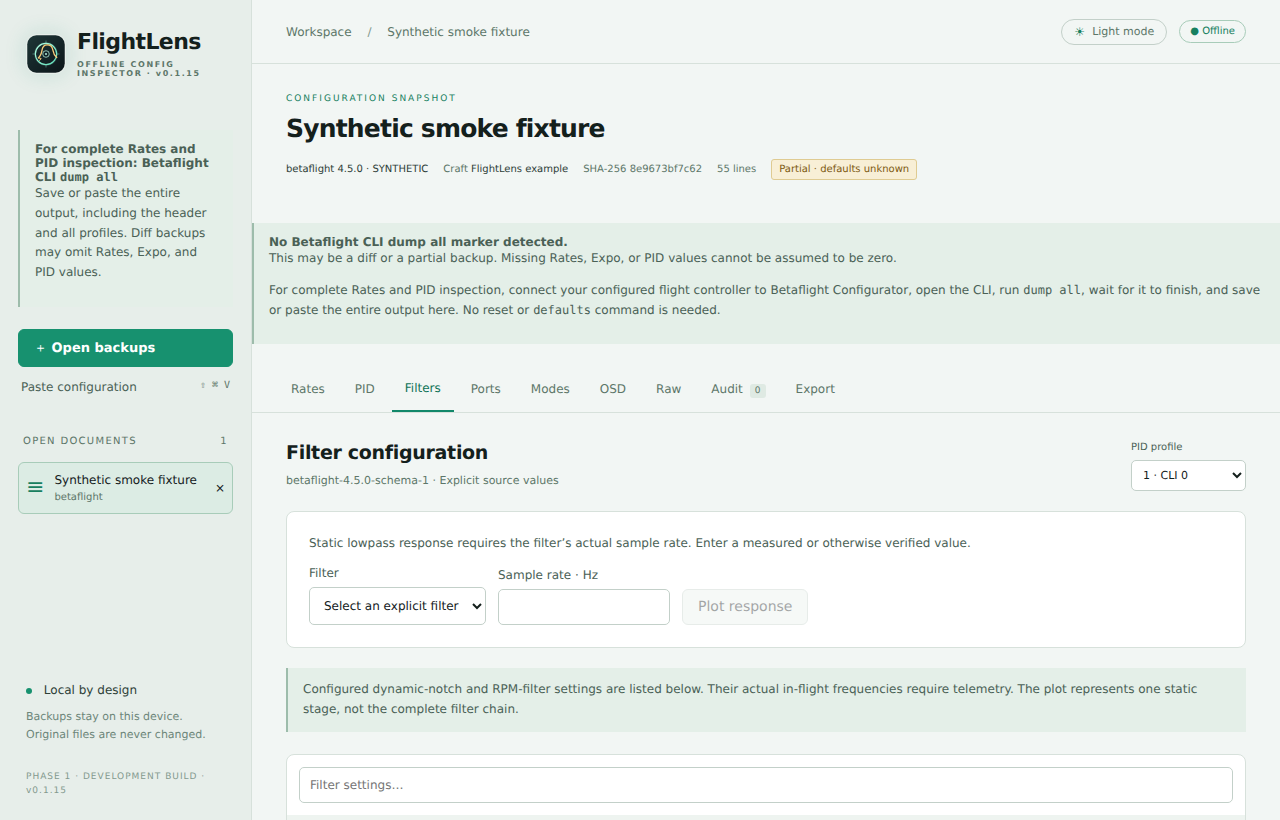
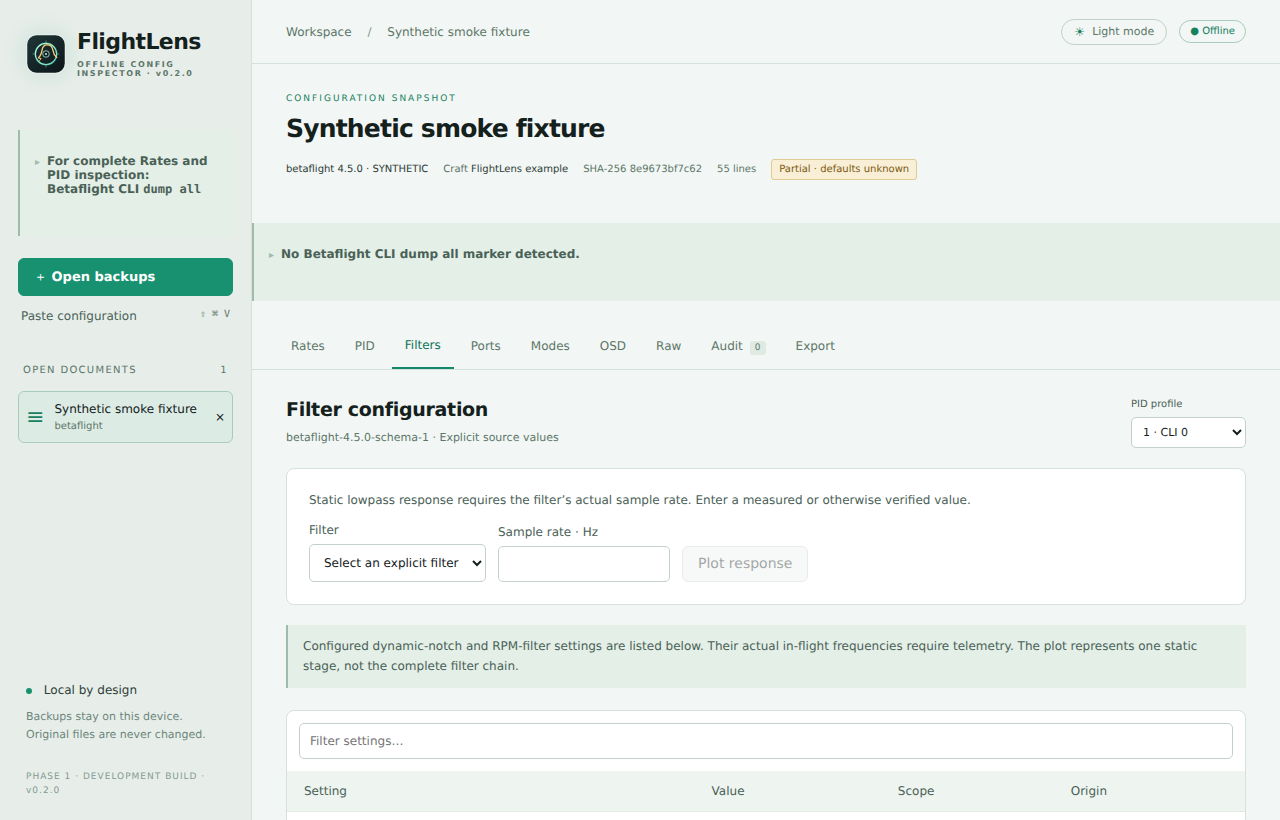
Collapse the backup-guidance notices by default
The sidebar "For complete Rates and PID inspection" note and the "No
Betaflight CLI dump all marker detected" warning in the Configuration
Snapshot each become a disclosure: the headline stays visible and the
detail opens on click, so the guidance remains available without pushing
the inspection down the page. README screenshots follow the new layout.

diff --git a/src/App.tsx b/src/App.tsx
@@ -144,8 +144,12 @@ export default function App() {
           </div>
         </div>
         <section className="notice" aria-label="Backup import warning">
-          <b>For complete Rates and PID inspection: Betaflight CLI <code>dump all</code></b>
-          <p>Save or paste the entire output, including the header and all profiles. Diff backups may omit Rates, Expo, and PID values.</p>
+          <details className="notice-details">
+            <summary>
+              <b>For complete Rates and PID inspection: Betaflight CLI <code>dump all</code></b>
+            </summary>
+            <p>Save or paste the entire output, including the header and all profiles. Diff backups may omit Rates, Expo, and PID values.</p>
+          </details>
         </section>
         <button
           className="primary import-button"
@@ -590,9 +594,13 @@ function Inspector({
       </section>
       {!d.syntax.some((line) => /^\s*(?:#\s*)?dump\s+all\s*$/i.test(line.raw)) && (
         <section className="notice" role="alert" aria-label="Incomplete backup warning">
-          <b>No Betaflight CLI dump all marker detected.</b>
-          <p>This may be a diff or a partial backup. Missing Rates, Expo, or PID values cannot be assumed to be zero.</p>
-          <p>For complete Rates and PID inspection, connect your configured flight controller to Betaflight Configurator, open the CLI, run <code>dump all</code>, wait for it to finish, and save or paste the entire output here. No reset or <code>defaults</code> command is needed.</p>
+          <details className="notice-details">
+            <summary>
+              <b>No Betaflight CLI dump all marker detected.</b>
+            </summary>
+            <p>This may be a diff or a partial backup. Missing Rates, Expo, or PID values cannot be assumed to be zero.</p>
+            <p>For complete Rates and PID inspection, connect your configured flight controller to Betaflight Configurator, open the CLI, run <code>dump all</code>, wait for it to finish, and save or paste the entire output here. No reset or <code>defaults</code> command is needed.</p>
+          </details>
         </section>
       )}
       <div className="tabbar" role="tablist" aria-label="Inspector views">

diff --git a/src/styles.css b/src/styles.css
@@ -731,6 +731,28 @@ kbd {
   font-size: 12px;
   margin: 16px 0 22px;
 }
+.notice-details > summary {
+  cursor: pointer;
+  list-style: none;
+  display: flex;
+  align-items: baseline;
+  gap: 7px;
+}
+.notice-details > summary::-webkit-details-marker {
+  display: none;
+}
+.notice-details > summary::before {
+  content: "\25B8";
+  color: var(--notice-border);
+  font-size: 10px;
+  transition: transform 0.12s ease;
+}
+.notice-details[open] > summary::before {
+  transform: rotate(90deg);
+}
+.notice-details > :not(summary) {
+  margin-bottom: 0;
+}
 .error {
   margin: 18px 34px;
   background: var(--error-bg);

diff --git a/CHANGES.md b/CHANGES.md
@@ -6,6 +6,14 @@ Work that is committed but not yet released sits under `## Unreleased` and is
 renamed to the version when the release is cut. Purely internal work
 (formatting, comments, test-only refactors) is left out.
 
+## Unreleased
+
+- Collapse the two backup-guidance notices by default: the "For complete Rates
+  and PID inspection" note in the sidebar and the "No Betaflight CLI dump all
+  marker detected" warning in the Configuration Snapshot. Each keeps its
+  headline visible and reveals the detail on click, so the guidance stays
+  available without pushing the inspection down the page.
+
 ## 0.2.0 — 2026-09-08
 
 - Document version bump criteria, compatibility commitments, and release cadence;
